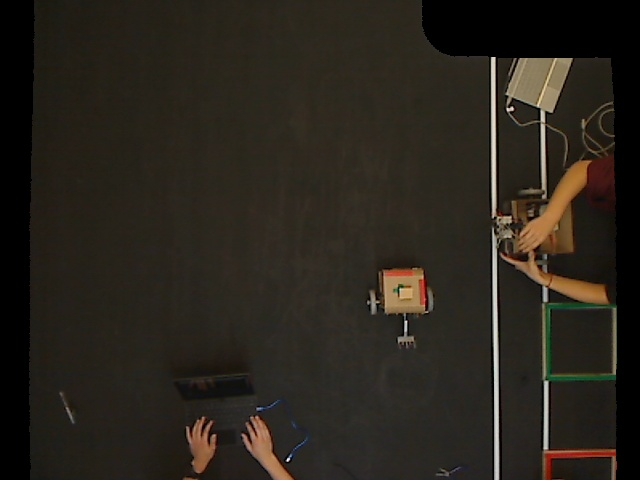
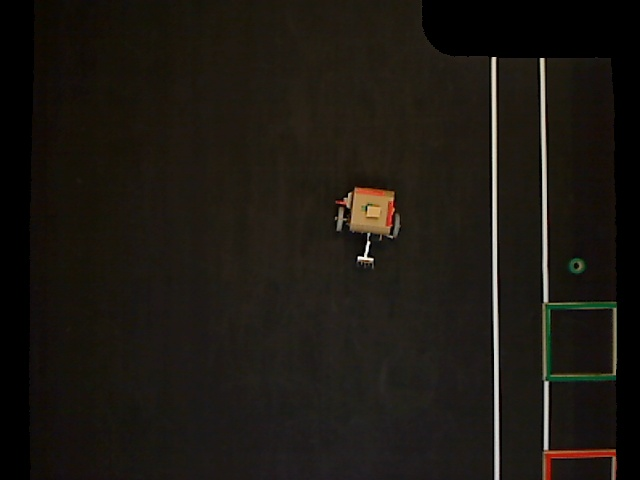
nina goes to coords now :)

diff --git a/computer-vision/robot.py b/computer-vision/robot.py
@@ -25,10 +25,10 @@ RED1 = np.array([0, 20])
 RED2 = np.array([340, 360])
 
 
-MAX_THETA_RATE = 0.15
-MAX_TRANS_RATE = 0.25
+MAX_THETA_RATE = 0.2
+MAX_TRANS_RATE = 0.3
 
-POS_DEADBAND_W = 0.06 # m
+POS_DEADBAND_W = 0.04 # m
 
 class Robot():
 
@@ -211,16 +211,20 @@ class Robot():
         cv2_cross(img, c_idx, 3, (255, 0, 255), 2)
         img = draw_line_from_params(img, c_idx, axes[1], (0, 255, 0))
 
-        # a = pt(pos=np.matmul(axes, self.b_box1_offset)).idx
+        a = pt(pos=np.matmul(axes, self.b_box1_offset)).idx
         # c = pt(pos=np.matmul(axes, self.b_box1_wh)).idx
         # b = pt(pos=np.matmul(axes, self.b_box2_offset)).idx
         # d = pt(pos=np.matmul(axes, self.b_box2_wh)).idx
 
+        bound_cntr = np.array([ tuple([int(x), int(y)]) for x, y in [
+            c_idx + a, 
+            c_idx + a + self.b_box1_wh[1]*axes[1],
+            c_idx + a + self.b_box1_wh[0]*axes[0] + self.b_box1_wh[1]*axes[1],
+            c_idx + a + self.b_box1_wh[0]*axes[0]
+        ]], dtype=np.int32)
 
-        # print(c_idx + a, b, c, d)
-        # bounding box in white
-        # cv2.rectangle(img, tuple(c_idx + a), tuple(c_idx + a + b), (255, 255, 255), 1)
-        # cv2.rectangle(img, tuple(c_idx + c), tuple(c_idx + c + d), (255, 255, 255), 1)
+        cv2.drawContours(img, [bound_cntr], 0, (255, 255, 255), 1)
+
 
 
         # img = cv2.bitwise_and(img, ROBOT_MASK)
@@ -234,7 +238,11 @@ class Robot():
             cv2_cross(img, t_idx, 3, (255, 255, 255), 2)
             cv2.line(img, tuple(t_idx), tuple(t_s_idx), (255, 255, 255), 1)
 
-            db_offset_idx = (axes[0] * (POS_DEADBAND_W / IDX_TO_COORD_SF)).astype(int)
+            db_offset_dir = (t_idx - t_s_idx)
+            db_offset_dir = np.array([db_offset_dir[1], -db_offset_dir[0]])
+            db_offset_dir = db_offset_dir/pythag(db_offset_dir)
+
+            db_offset_idx = (db_offset_dir * (POS_DEADBAND_W / IDX_TO_COORD_SF)).astype(int)
 
             # line deadband in orange
             cv2.line(img, tuple(t_idx + db_offset_idx), tuple(t_s_idx + db_offset_idx), (0, 127, 255), 1)
@@ -350,6 +358,7 @@ class Robot():
     def set_target_pos(self, t_pos):
 
         self.achieved_target = False
+        self.ok_to_translate = False
 
         centre = self.get_centre_coords()
 
@@ -358,7 +367,7 @@ class Robot():
         
         self.t_pos = t_pos
         self.t_start_pos = centre
-
+        
         rot = t_pos - centre
 
         self.set_target_rot(rot)
@@ -402,19 +411,24 @@ class Robot():
 
         if self.t_pos is not None:
             self.pos_err = pythag(self.t_pos - real_pos)
-            d_vec = self.t_pos - real_pos
+            
             t_line_vec = self.t_pos - self.t_start_pos
             t_line_vec = t_line_vec / pythag(t_line_vec)
 
+            d_vec = self.t_pos - real_pos
+
+            further_d_vec = d_vec + 0.1*t_line_vec # 10 cm past
             curr_t_rot = d_vec / pythag(d_vec)
             
-            if self.pos_err < 0.05:
+            if self.pos_err < 0.02:
                 # made it to correct position!
                 self.achieved_target = True
                 self.t_pos = None
                 self.t_rot = None
+                self.send_cmd("stop")
+                update_motors = False
 
-        if self.t_rot is not None: #and not self.ok_to_translate:
+        if self.t_rot is not None:
 
             d_prod = np.dot(curr_t_rot, real_rot)
             c_prod = curr_t_rot[0] * real_rot[1] - curr_t_rot[1] * real_rot[0]
@@ -428,7 +442,7 @@ class Robot():
             self.theta_err = theta_err
             # print("theta error (rad):", theta_err)
 
-            if abs(theta_err) > DEG_TO_RAD * 5:
+            if abs(theta_err) > DEG_TO_RAD * 3:
                 
                 if abs(theta_err) > DEG_TO_RAD * 20:
                     theta_rate = - MAX_THETA_RATE * sign(theta_err)
@@ -442,14 +456,15 @@ class Robot():
             
             # hysteresis on ok_to_translate
             else:
-                self.send_cmd("stop")
-                update_motors = False
-                
                 if self.t_pos is None:
                     self.achieved_target = True
                     self.t_rot = None
                 else:
-                    self.ok_to_translate = True
+
+                    if not self.ok_to_translate:
+                        self.send_cmd("stop")
+                        update_motors = False
+                        self.ok_to_translate = True
 
 
             if self.t_pos is not None:
@@ -470,11 +485,6 @@ class Robot():
                     self.set_target_rot(d_vec)
                     self.outside_deadband = True
 
-                # else:
-                #     theta_rate = perp_dist_from_t * perp_dist_from_t / MAX_THETA_RATE
-                #     self.l_cmd += theta_rate
-                #     self.r_cmd -= theta_rate
-
                 if abs(perp_dist_from_t) < POS_DEADBAND_W / 2 and self.outside_deadband:
                     self.outside_deadband = False
 
@@ -486,47 +496,35 @@ class Robot():
 
                         self.l_cmd += MAX_TRANS_RATE
                         self.r_cmd += MAX_TRANS_RATE
+                    
+                    else:
 
-                    elif self.pos_err > 0.05: #m
+                        self.l_cmd += MAX_TRANS_RATE * (self.pos_err + 0.025)/0.125
+                        self.r_cmd += MAX_TRANS_RATE * (self.pos_err + 0.025)/0.125
 
-                        self.l_cmd += MAX_TRANS_RATE * self.pos_err/0.1
-                        self.r_cmd += MAX_TRANS_RATE * self.pos_err/0.1
 
             if update_motors:
                 self.set_motors()
 
     def set_motors(self):
 
-        update = False
-
-        if abs(self.l_cmd - self.last_l_cmd) > 0.01:
-            self.last_l_cmd = self.l_cmd
-            update = True
-
-        if abs(self.r_cmd - self.last_r_cmd) > 0.01:
-            self.last_r_cmd = self.r_cmd
-            update = True
-
-        # print(update)
         if abs(self.l_cmd) < 0.01 and abs(self.r_cmd) < 0.01:
             self.send_cmd("stop")
             return
 
+        l_int = int(round(self.l_cmd * 255))
+        r_int = int(round(self.r_cmd * 255))
 
-        if update:
-            l_int = int(round(self.last_l_cmd * 255))
-            r_int = int(round(self.last_r_cmd * 255))
-
-            self.send_cmd(f"run:0:{l_int}:{r_int}")
-            # print(f"run:0:{l_int}:{r_int}")
+        self.send_cmd(f"run:0:{l_int}:{r_int}")
+        
         
 
-    # max rate of 10 Hz
+    # max rate of 5 Hz
     def send_cmd(self, cmd_txt):
 
         t_now = time.time() 
 
-        if cmd_txt != self.latest_cmd and (cmd_txt == "stop" or t_now - self.latest_cmd_time > 0.1):
+        if cmd_txt != self.latest_cmd and (cmd_txt == "stop" or t_now - self.latest_cmd_time > 0.2):
             if USE_VIDEO:
                 print("sending:", cmd_txt)
                 udpc.sendCommand(cmd_txt.encode())

diff --git a/computer-vision/udpComms.py b/computer-vision/udpComms.py
@@ -4,23 +4,27 @@ from global_stuff import *
 
 def rxThread():
     s.sendto(b"Hello from python", (IP, 2390))
-    while True:
-        # Receive BUFFER_SIZE bytes data
-        # data is a list with 2 elements
-        # first is data
-        # second is client address
-        data = s.recvfrom(BUFFER_SIZE)
-        if data:
-            # print received data
-            print('Client to Server: ' , data)
-            # Message is contained in data[0]
-    # Close connection
-    s.close()
+    try:
+        while True:
+            # Receive BUFFER_SIZE bytes data
+            # data is a list with 2 elements
+            # first is data
+            # second is client address
+            data = s.recvfrom(BUFFER_SIZE)
+            # if data:
+                ## print received data
+                # print('Client to Server: ' , data)
+                ## Message is contained in data[0]
+        # Close connection
+    except:
+        print("stopping udp comms thread")
+        sendCommand(b"stop")
+        s.close()
 
 def sendCommand(command):
     s.sendto(command, (IP, 2390))
 
-IP = "192.168.137.38"
+IP = "192.168.137.185"
 
 # def setup():
 # bind all IP
@@ -34,5 +38,10 @@ s = socket.socket(socket.AF_INET, socket.SOCK_DGRAM)
 # Bind the socket to the host and port
 s.bind((HOST, PORT))
 # Start thread for receiving data
-rxthread = threading.Thread(target=rxThread)
-rxthread.start()
+
+
+if __name__ == "__main__":
+    sendCommand(b"stop")
+else:
+    rxthread = threading.Thread(target=rxThread)
+    rxthread.start()

diff --git a/computer-vision/main.py b/computer-vision/main.py
@@ -107,10 +107,9 @@ if __name__ == "__main__":
 
         mine_data = []
 
-        test_loc = False
+        i = 0
 
         while True:
-
 
             # r_frame = cv2.resize(r_frame, tuple(RESOLUTION))
             if Nina.wants_mine_data():
@@ -131,8 +130,12 @@ if __name__ == "__main__":
            
             Nina.update_pos(r_frame)
 
-            if not test_loc:
-                Nina.set_target_pos(np.array([1.7, 1.6]))
+            if i < 10:
+                Nina.set_target_pos(np.array([1.0, 1.5]))
+
+            if Nina.achieved_target:
+                Nina.set_target_pos(np.random.rand(2)*1.4 + 0.5)
+                print("set new target")
             # Nina.update_state()
 
             Nina.illustrate(r_frame)
@@ -145,6 +148,7 @@ if __name__ == "__main__":
 
                 # time.sleep(2)
 
+            i += 1
 
             if cv2.waitKey(1) & 0xFF == ord('q'):
                     break

diff --git a/computer-vision/arena.py b/computer-vision/arena.py
@@ -162,7 +162,7 @@ if __name__ == "__main__":
     print((y*2 -x).cv_tup)
 
 
-robot_mask_name = "pics/calib/robot_mode_mask1.jpg"
+robot_mask_name = "pics/calib/robot_mode_mask.jpg"
 ROBOT_MASK = cv2.imread(robot_mask_name)
 ROBOT_MASK = cv2.resize(ROBOT_MASK, tuple(RESOLUTION))
 
